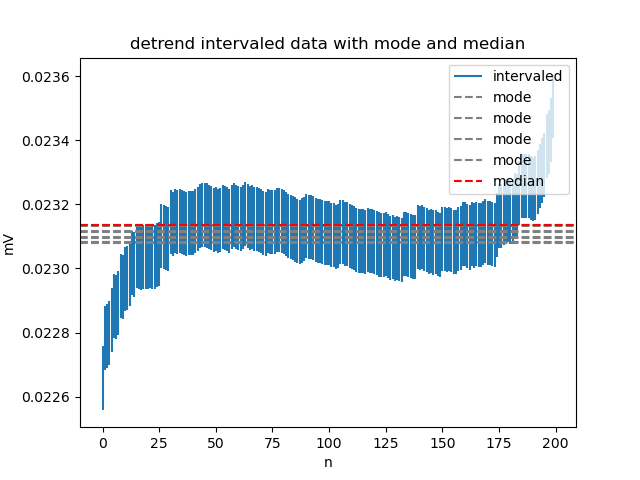
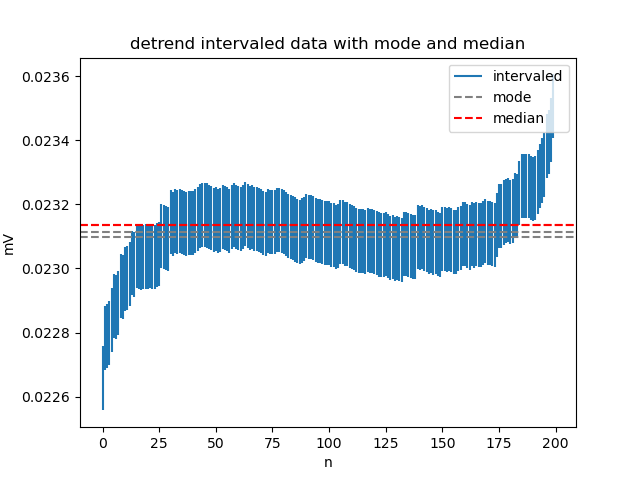
Fix bugs

Changed region(s): [[0.125, 0.4688, 0.9062, 0.5312], [0.6875, 0.2188, 0.875, 0.4062]]

diff --git a/ex_task.py b/ex_task.py
@@ -63,35 +63,13 @@ def find_all_plot(xs, wys, *, i_path: Path, detrend=False):
     plt.show()
 
 
-def lab3_ext(d_path: Path, w_path: Path, *, i_path: Path, tol=1.9 * 1e-4):
+def lab3_ext(d_path: Path, w_path: Path, *, i_path: Path, tol=1e-4):
     ys = load_data(d_path)
     xs = np.arange(len(ys))
-    # a, b, ws =load_weights(w_path)
-    max_weight = np.max(load_weights(w_path))
-    low, high = ys - tol * max_weight, ys + tol * max_weight
-
-    # pts = find_pts(xs, (low, high))
-    pts = [[7.98265896e-06, 2.35179375e-02], [1.63799716e-05, 2.20143629e-02], [7.54437870e-06, 2.22187311e-02],
-           [1.35555556e-05, 2.25538264e-02]]
-    *polys, = map(np.poly1d, pts)
-    pre_trend = np.zeros((len(polys), len(xs)))
-    for i, poly in enumerate(polys):
-        pre_trend[i] = poly(xs)
-    low_trend = np.min(pre_trend, axis=0)
-    high_trend = np.max(pre_trend, axis=0)
-
-    np.save('./low_trend', low_trend)
-    np.save('./high_trend', high_trend)
-
-
-
-    low_detrend = low - high_trend
-    high_detrend = high - low_trend
     weights = 5.40278e-06
-    low_detrend = ys - 1e-4 - xs*weights
-    high_detrend = ys + 1e-4 - xs*weights
-    plt.vlines(xs, low_detrend, high_detrend)
-    plt.show()
+    low_detrend = ys - tol - xs * weights
+    high_detrend = ys + tol - xs * weights
+
     plt.plot(xs, ys, label="orig")
     plt.legend()
     ttl = "original data"
@@ -102,7 +80,7 @@ def lab3_ext(d_path: Path, w_path: Path, *, i_path: Path, tol=1.9 * 1e-4):
     plt.show()
 
     find_all_plot(xs, (ys - tol, ys + tol), i_path=i_path)
-    find_all_plot(xs, (low_detrend, high_detrend), i_path=i_path, detrend=True)
+    # find_all_plot(xs, (low_detrend, high_detrend), i_path=i_path, detrend=True)
 
 
 def lab4_ext(predict_at, d_path: Path, w_path: Path, *, i_path: Path, tol=1.9 * 1e-4, trslice=slice(50, 150)):
